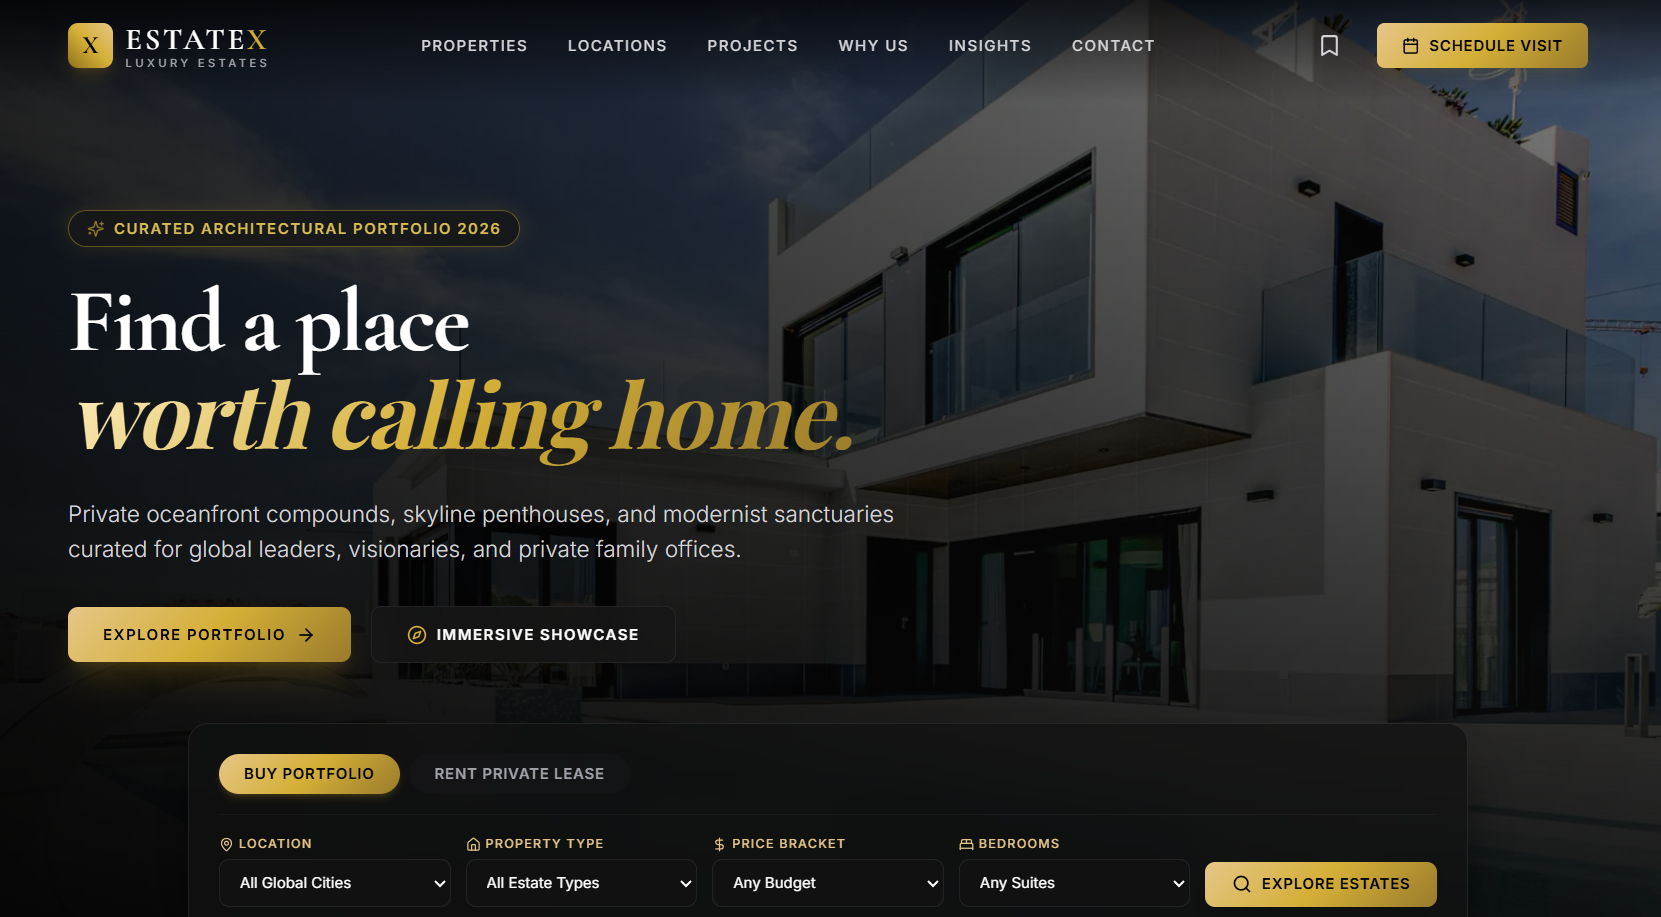
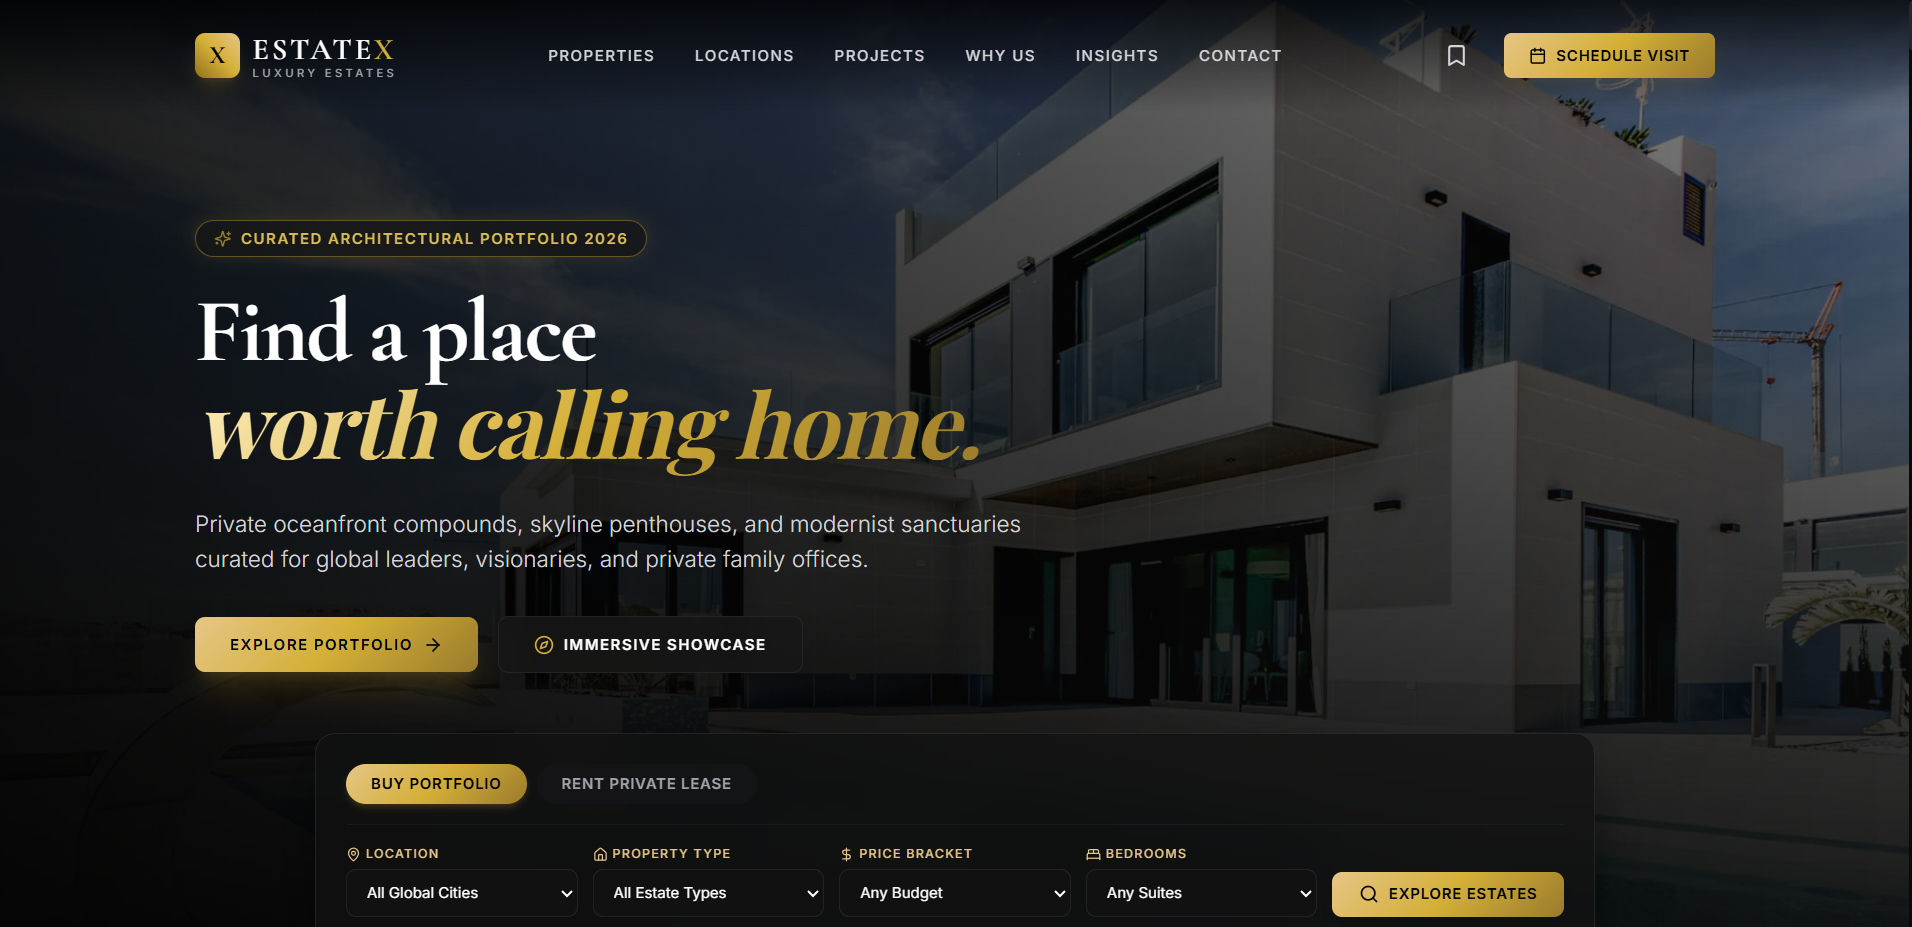
feat: added project's images

diff --git a/src/App.tsx b/src/App.tsx
@@ -1,13 +1,15 @@
 import { useState } from "react";
 import { Copy, Check, Image as ImageIcon } from "lucide-react";
-import "./App.css"; 
+import "./App.css";
 
 // --- 1. ADD YOUR IMAGE FILENAMES HERE ---
 // Make sure these files exist inside your 'public' folder.
 const myImages = [
   "portfolio-project.png",
   "login-signup.png",
-  "Estate-x.png"
+  "Estate-x.png",
+  "AI-resume-analyzer.png",
+  "Buildify.png"
   // Add more filenames here...
 ];
 
@@ -30,7 +32,7 @@ function App() {
   return (
     <div className="app-container">
       <div className="content-wrapper">
-        
+
         {/* Header */}
         <header className="main-header">
           <div className="title-group">
@@ -46,15 +48,15 @@ function App() {
         <div className="gallery-grid">
           {myImages.map((img, index) => (
             <div key={index} className="asset-card">
-              
+
               {/* Image Preview Area */}
               <div className="image-wrapper">
-                <img 
-                  src={`/${img}`} 
-                  alt={img} 
+                <img
+                  src={`/${img}`}
+                  alt={img}
                   onError={(e) => {
                     // Hides image and shows error text if file is missing
-                    (e.target as HTMLImageElement).style.display = 'none'; 
+                    (e.target as HTMLImageElement).style.display = 'none';
                     (e.target as HTMLImageElement).nextElementSibling?.classList.add('show-error');
                   }}
                 />
